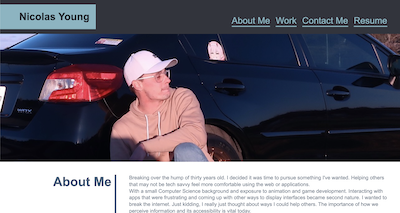
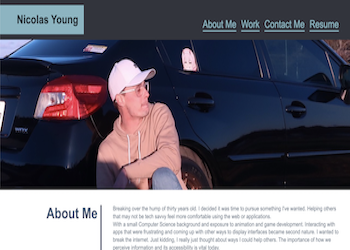
added borders to image links

diff --git a/assets/style.css b/assets/style.css
@@ -83,10 +83,10 @@ section {
 .content {
     font-size: 16px;
     color: slategray;
-    padding-left: 20px;
     width: 70%;
     flex-wrap: wrap;
     margin: auto 20px;
+    align-content: center;
 }
 
 .content p {
@@ -109,16 +109,34 @@ section {
 .work-content {
     display: flex;
     flex-wrap: wrap;
+    justify-content center
+}
+.content img {
+}
+.work-content img {
+
 }
 
 .item {
-    width: 400px;
+    width: 350px;
     height: 250px;
     background-color: var(--secondary-color);
+    border: 5px solid var(--primary-color);
 }
 
 .item img {
     object-fit: contain;
+}
+
+.proj-title {
+    background-color: var(--primary-color);
+    padding: 10px 10px 10px 40px;
+    margin: 10px 0;
+    z-index:9999;
+    color: black;
+    position: relative; 
+    display: inline-block;
+    bottom:100px;
 }
 
 /* .projects {
